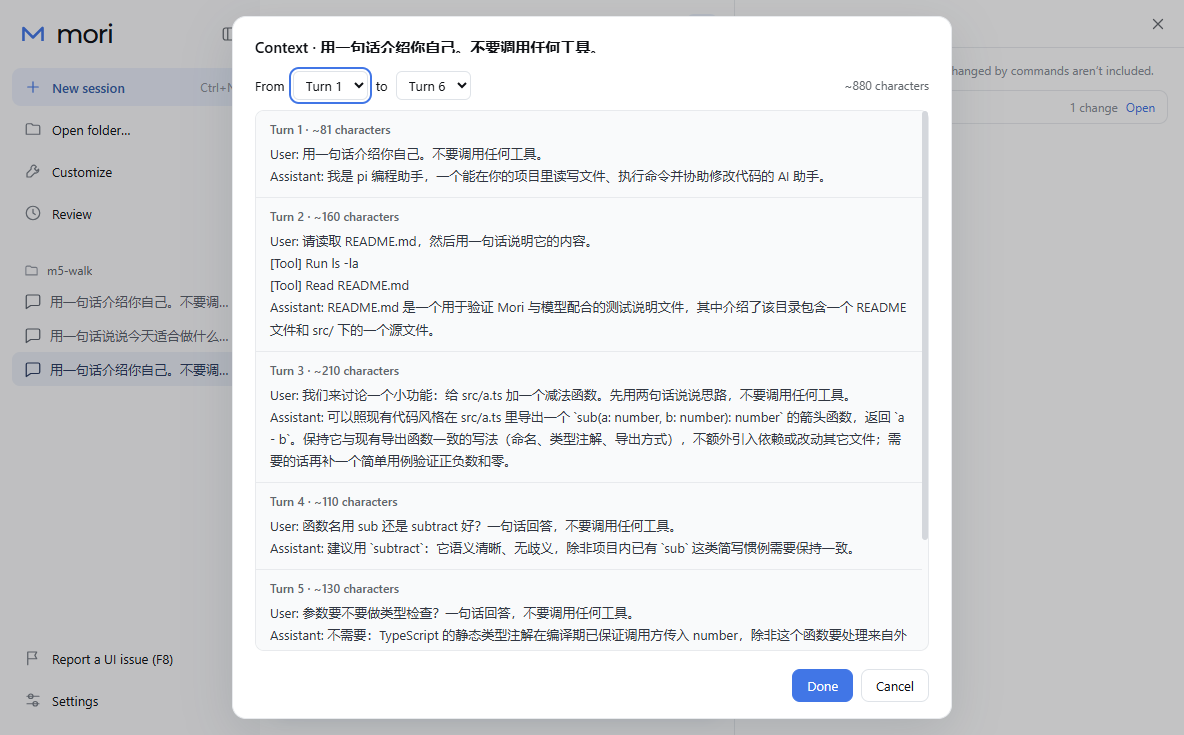
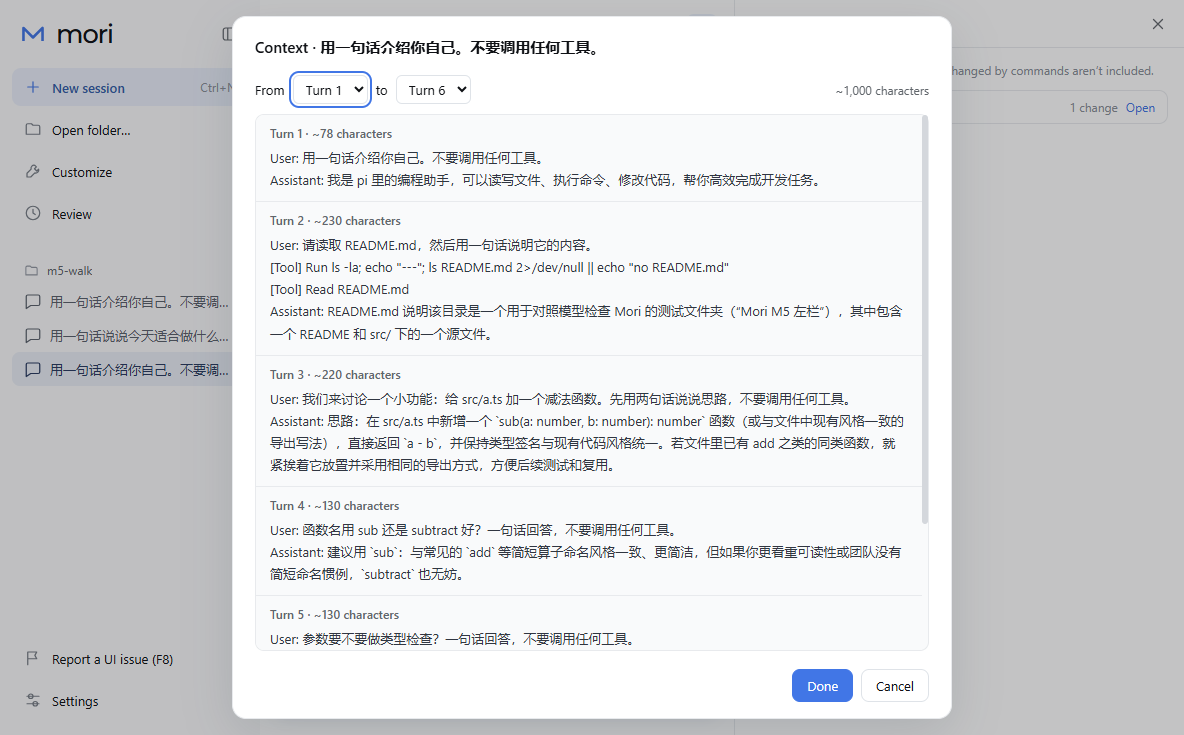
Fix the clipped heading in the session-reference preview
The preview dialog is a flex column with a max height and its heading had overflow: hidden, so
its automatic minimum height was 0: when the turn list filled the dialog the heading shrank and
the bottom of the text (or the whole line, for long sessions) was cut. It predates the English
switch (docs/v0/m5/4-preview.png). The heading no longer shrinks and stays one line with an
ellipsis.

New checks in m5-app (default size, 800x600 content, very long name), m5-replay (ref-turns) and
m5-real fail on the old CSS and on an overflow: visible variant, and pass on both builds.

Changed region(s): [[0.2188, 0.0898, 0.7812, 0.898], [0.7188, 0.0898, 0.7812, 0.1497], [0.3438, 0.0898, 0.4062, 0.1497]]

diff --git a/app/src/renderer/src/styles/split.css b/app/src/renderer/src/styles/split.css
@@ -89,7 +89,9 @@
 
 /* 预览对话框 */
 .dialog.ref-preview { display: flex; flex-direction: column; width: min(720px, 100%); max-height: calc(100vh - 32px); }
-.ref-preview h2 { overflow: hidden; text-overflow: ellipsis; white-space: nowrap; }
+/* 标题不跟着收缩：overflow: hidden 使它在列方向的自动最小高度为 0，轮次列表占满对话框时会被压矮、字被裁掉；
+   会话名一行放不下时截断加省略号，不折行 */
+.ref-preview h2 { flex: none; overflow: hidden; text-overflow: ellipsis; white-space: nowrap; }
 .ref-preview .ref-note { margin: 6px 0 0; color: var(--color-muted); font-size: var(--fs-small); }
 .ref-range { display: flex; flex-wrap: wrap; align-items: center; gap: 8px; margin: 12px 0 10px; }
 .ref-range select {

diff --git a/docs/v0/english-ui-checks.md b/docs/v0/english-ui-checks.md
@@ -9,6 +9,10 @@ fixture，修两个过时的脚本）。
 以及审查后的第二轮：`app/src` 三个文件（表单不用浏览器自带的校验、Chromium 固定用英文、选文件夹对话框的英文标题）和
 `m1-app.mjs`、`m6-app-settings.mjs` 新加的 3 项检查，见"测试中发现并已修正的问题"第 7–8 条；这份记录、`docs/v0/english-ui/`
 的截图、`app/README.md`、`docs/app-v0.md` 和 `ui-strings.md` 的改动也没有提交。分支没有推送，也没有合并进 `app-v0`。
+上面这些后来都提交在 `7500596`（各条里的"没有提交"是写下时的状态）。之后的第三轮修了会话引用预览的标题被压矮，
+审查后又收紧了新加的检查（见"第三轮"），改了 `app/src/renderer/src/styles/split.css`、`app/tests/ui/` 的
+`m5-helpers.mjs`、`m5-app.mjs`、`m5-replay.mjs`、`m5-real.mjs`，状态表 [screens/session-refs.md](screens/session-refs.md)、
+这份记录和 `english-ui/m5-preview.png`，都没有提交。
 
 ## 状态
 
@@ -19,8 +23,9 @@ fixture，修两个过时的脚本）。
 M2–M7 的走查也还没签收（[m7-checks.md](m7-checks.md)"状态"）。这次没有改行为，那些走查要看的东西不变，
 只是界面上的字换成了英文；另外顶栏、侧栏、设置页按英文字宽重新定了几处宽度（"与方案不同"第 3 条）。
 真实端点仍是 DeepSeek 公网端点（`deepseek-flash`），key 用你在 Mori 里加密保存的那一份（`%TEMP%\mori-real-data`）；
-脚本只复制加密的 key 文件，不读取 key；`m0-real` 用的是这个文件夹的临时副本（照 `tests/ui/lib.mjs` 的 `scratchUserData`），
-跑完已删除。重录的 fixture 里没有 key，也没有这个文件夹的路径（已扫描）。
+脚本不读取 key：走查和录制用 `tests/ui/lib.mjs` 的 `scratchUserData` 把这个文件夹里的 `credentials.json`（加密的 key）、
+`Local State`（解密要用）、`pi/models.json` 和 `pi/settings.json` 复制到临时数据目录再用（`m1-real`、`m1-record` 的几项反例
+不复制前两个）；`m0-real` 用的是同样复制出来的临时副本，跑完已删除。重录的 fixture 里没有 key，也没有这个文件夹的路径（已扫描）。
 
 结果一览：合成端点的整机测试 840 项（另有 1 项 KNOWN，pi #9129）在开发构建和打包程序上全部通过；界面回放 367 项
 在开发构建上全部通过；M0–M7 的 DeepSeek 走查 274 项（另有 1 项标为模型行为的 KNOWN）在开发构建和打包程序上都通过，
@@ -29,6 +34,11 @@ M2–M7 的走查也还没签收（[m7-checks.md](m7-checks.md)"状态"）。这
 审查后第二轮改了 `app/src`（表单不用浏览器按系统语言弹的校验气泡、Chromium 固定用英文、选文件夹对话框的英文标题），
 之后在开发构建和打包程序上重跑了全部整机测试（843 项，比第一轮多 3 项新检查）、在开发构建上重跑了全部界面回放，都通过
 （几项要重跑：锁屏时剪贴板不能用、`m4-replay` 已知的拖选时机，见"第二轮"）；真实端点的走查和一键导出安装包没有在第二轮重跑。
+第三轮修了会话引用预览的标题被压矮（原来就有）：`.ref-preview h2` 加 `flex: none`。新加的 5 项检查里 `m5-app` 的 3 项、
+`m5-replay` 的 1 项在改之前的构建上失败（`m5-real` 那一项没有在改之前跑）。审查后收紧了检查（长名字那一项要求标题横向
+裁掉放不下的部分、对话框没有被撑宽，`m5-real` 那一项要求轮次列表占满对话框）：把标题错改成 `overflow: visible` 时长名字
+那一项失败；收紧后 `m5-app` 39 项（开发构建和打包程序）、`m5-replay` 21 项（开发构建）、`m5-real` 17 项（DeepSeek，
+开发构建）全部通过；`m5-real` 在打包程序上只跑过收紧之前的版本（也是 17 项全部通过），见"第三轮"。
 到现在为止只有测试脚本和几张截图"看过"英文界面，还没有人从头到尾用眼睛看过（见"未验证"）。
 
 ## 你决定的
@@ -45,7 +55,7 @@ M2–M7 的走查也还没签收（[m7-checks.md](m7-checks.md)"状态"）。这
 | 工作回顾 | Review | 左栏导航、页标题、"View in Review"、F8 报告的 "Page: Review" |
 | 引用这一族（选区的"问 Mori"、会话菜单的"引用到当前会话"、回复下的"引用到输入框"、把会话拖进输入框） | 用 Claude 的 "Attach as context" | 选区浮层和会话菜单 "Attach as context"，回复下 "Attach message as context"，拖放提示 "Drop to attach as context"；芯片和预览 "Context · …"、"Remove context"、"Not attached"、"the attached text"；发给模型的文字不变，仍是 "Quoting …:" 和 "[Quote] …"；工作回顾里反馈的 "Quoted text" 是反馈针对的原文，不属于这个功能，没有改 |
 | 工具页 | Customize（Claude 开关技能、插件、连接器的页面叫这个） | 左栏导航、页标题、F8 的 "Page: Customize"、操作记录 "Open Customize"；分节标题 Built-in tools / Skills / Plugins / MCP 不变；代码里的文件名（`ToolsPage.tsx` 等）和状态表 [screens/tools.md](screens/tools.md) 没有改名 |
-| 会话引用预览的标题顶部被切掉一点（原来就有） | 在这个会话里修 | **还没有做**：要在 `english-ui` 上改 `split.css`（`.ref-preview h2` 加 `flex: none`）并在 `m5-app`、`m5-replay` 加一项标题没被切的检查；到这份记录为止 `app/src` 里没有这处改动（见"与方案不同"第 4 条、"未验证"） |
+| 会话引用预览的标题被压矮、字的下面被裁掉（原来就有；先前记成"顶部被切掉一点"，量过之后是下面：回放里一行 20px 只剩 16px 看得见，超过 2 万字的会话整行看不见） | 在这个会话里修 | 第三轮已修（没有提交）：`split.css` 的 `.ref-preview h2` 加 `flex: none`；`m5-app` 加 3 项、`m5-replay` 加 1 项、`m5-real` 加 1 项检查，审查后收紧过；`m5-app`、`m5-replay` 的新检查在改之前的构建上失败、改后通过（见"第三轮"、"测试中发现并已修正的问题"第 9 条） |
 | 分屏一栏约 460px 时会话名被挤到约 2 个字符 | 把模型、Effort、权限按钮从顶栏移到输入框下面一行（像 Claude 桌面版），不选"权限按钮只留图标"；Effort 仍是单独的按钮（不像 Claude 那样放进模型菜单）；上下文用量改成模型按钮旁边的小圆环（像 Claude） | 不在这个分支做：英文界面提交之后，在从 `english-ui` 分出的 `composer-pickers` 分支上做（分支还没有建）；这个分支里顶栏的布局不变（见"与方案不同"第 3 条） |
 
 "新会话"叫 "New session" 是任务说明里给定的（术语表里标"负责人定"）。排队叫 "Queue" / "Queued" 不是你定的：它只出现在
@@ -250,6 +260,87 @@ preload 里改过的每个字串去找，旧的 fixture 里都没有（只在界
 - 新加的 3 项在改代码之前的构建（`f381eed` 的 `out/`）上都失败过（"测试中发现并已修正的问题"第 7–8 条）。
 - 另一会话的测试：这一轮没有遇到端口冲突。
 
+### 第三轮：会话引用预览的标题（2026-10-21 17:14–17:49Z；审查后收紧检查 18:14–18:40Z）
+
+**原因**：预览对话框 `.dialog.ref-preview` 是限高（`max-height: calc(100vh - 32px)`）的列方向 flex 容器，轮次列表
+`.ref-turns` 是 `flex: 1`。标题 `.ref-preview h2` 为了省略号设了 `overflow: hidden`，这让它在列方向的自动最小高度变成 0
+（其余几行没有 `overflow: hidden`，最小高度就是内容的高度，不会被压）。轮次的内容放不下时，要收缩的高度按各项的基准尺寸
+分摊，标题也分到一份，被压矮；字从盒子的顶上排起，被裁掉的是字的下面（不是先前记的"顶部"）：`m5-replay` 量到一行 20px
+只剩 16px 看得见。中文界面的 [M5 截图](m5/4-preview.png) 和第一轮打包程序 `m5-real` 的 `4-preview.png`（页面 1184×735）
+都是这样；后者在 `app/test-results/` 里的已被第三轮的走查覆盖，`english-ui/m5-preview.png` 也换掉了，现在只在 git 里：
+`7500596:docs/v0/english-ui/m5-preview.png`。内容越多压得越狠：超过 2 万字的会话，标题只剩不到 1px，整行看不见。
+
+**修正**：`app/src/renderer/src/styles/split.css` 的 `.ref-preview h2` 加 `flex: none`（不伸缩），`overflow: hidden`、
+`text-overflow: ellipsis`、`white-space: nowrap` 不变（一行、放不下时省略号），上面加了两行中文注释写明原因。
+状态表 [screens/session-refs.md](screens/session-refs.md)"预览与调整范围"加了一句：标题始终完整显示在一行，会话名太长时
+截断加省略号、不折行。
+
+**检查**：`m5-helpers.mjs` 新加 `previewHeading`（量标题：`clientHeight` 与 `scrollHeight`；盒子的高度与一行的高度，
+line-height 是 normal，取字的 Range 外框的高度；字排成几行；字是否比盒子宽（`scrollWidth` 大于 `clientWidth`）；computed 的
+`overflow-x` 和 `text-overflow`；是否超出对话框右边；标题和对话框的右边、对话框的宽、页面的宽；轮次列表是否占满对话框）、
+`headingWhole`（只有一行、`clientHeight` 不小于 `scrollHeight`、盒子不比一行矮，留 0.5px）和审查后加的 `headingTruncated`
+（字比盒子宽；`overflow-x` 是 `hidden` 或 `clip`；`text-overflow` 是 `ellipsis`；只有一行；标题不超出对话框；标题和对话框的
+右边都在页面里；对话框宽 min(720px, 页面宽 − 32px)；都留 0.5px。这个宽度来自 `.dialog.ref-preview` 的
+`width: min(720px, 100%)`、外层 `.dialog-backdrop` 左右各 16px 的 padding 和全局的 `box-sizing: border-box`）。
+
+| 测试 | 新加的检查 | 怎么做 |
+| --- | --- | --- |
+| `m5-app`（新步骤 `headingFit`，在 `longSource` 之后；要用 `longSource` 建的会话，`--only` 时两个都要选） | 预览的标题：默认窗口大小、轮次列表占满对话框时标题完整显示，只有一行、没有被压矮 | 用菜单把超过 2 万字的会话（`longSource` 建的，6 轮）引用进 B，点芯片；窗口先回到启动时的大小（页面 1184×735） |
+| 同上 | 预览的标题：内容区 800×600、轮次列表占满对话框时标题仍完整显示，只有一行 | 同一个对话框，窗口内容区改成 800×600（审查后照 `m2-app` 改叫"内容区 800×600"，原来叫"最小窗口 800×600"） |
+| 同上 | 预览的标题：会话名很长时只有一行，横向裁掉放不下的部分、截断加省略号、不折行，不超出对话框和窗口，对话框没有被撑宽，完整显示 | 把这个会话改名为 127 个字符的中英文名字，再打开预览（也占满对话框）；核对标题的文字是完整的名字、`headingTruncated` 和 `headingWhole`。审查前只看"放不下""省略号""不超出对话框"和 `headingWhole`，标题错改成 `overflow: visible` 也会通过（见下面的反例） |
+| `m5-replay` | ref-turns：轮次列表占满预览对话框时（默认窗口大小），标题"Context · <会话名>"完整显示，只有一行、没有被压矮 | `ref-turns` fixture 的会话 C（6 轮），回放窗口 1200×800（页面 1184×735），就是截图里的那个对话框；另存截图 `ref-turns-preview` |
+| `m5-real` | 走查 4：轮次列表占满预览对话框时，标题"Context · <会话名>"完整显示，只有一行、没有被压矮 | 走查 4 截图 `4-preview` 的同一时刻；审查后要求轮次列表占满对话框（原来只记在详情里，列表没占满时会白白通过） |
+
+**先失败**（改之前：`7500596` 的 `app/src`，`npx electron-vite build` 之后）：
+
+| 测试 | 结果 | 量到的值（标题的 `clientHeight` / `scrollHeight`，盒子 / 一行） |
+| --- | --- | --- |
+| `m5-replay`（17:17Z） | 20 项通过，1 项失败，就是新加的那一项 | 16 / 20，15.94px / 20px：字的下面 4px 被裁掉，与截图相同；轮次列表占满对话框 |
+| `m5-app`（17:44Z） | 36 项通过，3 项失败，就是新加的 3 项 | 默认窗口（页面 1184×735）1 / 20，0.89px / 20px；800×600 时 1 / 20，0.67px；长名字 1 / 20，0.89px（一行、放不下、省略号这几样是对的，只是被压到不到 1px）。截图里标题整行不见了 |
+
+`m5-app` 的新步骤先写成用 `setContentSize` 回到启动时 `getContentSize` 的大小；这个窗口有菜单栏，页面因此比启动时高
+26px（1184×761）。改成按窗口外框（`getSize` / `setSize`）恢复、详情里记下页面的大小后，在改之前的构建上重跑了一遍（上表），
+再在改之后的两种构建上各跑一遍。第一版的结果与最终版相同：改之前 36 项通过、同样 3 项失败（17:19Z），改之后开发构建、
+打包程序都是 39 项全部通过（17:24Z、17:27Z）。`m5-helpers.mjs`、`m5-replay.mjs`、`m5-real.mjs` 在这之后到审查前没有再改。
+
+收紧后的检查也在改之前的 CSS 上跑过（18:33–18:35Z，`split.css` 临时换回 `7500596` 的版本，`npx electron-vite build`）：
+`m5-app` 仍是 36 项通过、同样 3 项失败，量到的值与上表相同（长名字那一项横向的几样都对，只是被压到 1 / 20）；
+`m5-replay --only ref-turns` 7 项通过、1 项失败，就是新加的那一项（16 / 20）。
+
+**反例：标题错改成 `overflow: visible`**（审查后，18:14–18:16Z）：临时把 `.ref-preview h2` 改成
+`flex: none; overflow: visible; …`（不再被压矮，但放不下的字不裁掉、省略号也不起作用），`npx electron-vite build` 后跑
+`m5-app`：38 项通过，1 项失败，就是长名字那一项。详情里一行、20 / 20、字比盒子宽、`text-overflow: ellipsis`、标题的盒子在
+对话框里（右边 929 ≤ 952）、对话框宽 720px（页面 1184px）都对，只有 `overflow-x` 是 `visible`；审查前的条件这时会通过。
+截图里会话名伸出对话框，一直伸到窗口右边外面。之后把 `split.css` 从改之前存的副本复制回来（SHA-256 相同，`git diff` 只有
+这一处修正和两行注释），重新构建。
+
+**结果**（改之后）：`npm run check` 通过（改后两次，`dist:dir` 里又一次；收紧后 18:17Z 一次，`dist:dir` 里又一次）。
+17:25Z `npm run dist:dir`，`app.asar` 里是改后的 CSS；最后一次构建的 `out/` 与解开的 `app.asar` 的 327 个文件逐个比较
+SHA-256，全部相同。收紧后 18:22Z 又 `npm run dist:dir` 一次，`out/` 与 `app.asar` 的 327 个文件同样逐个相同（跑完改之前的
+CSS 之后的最后一次构建也比较过）。
+
+| 测试 | 开发构建 | 打包程序（`dist/win-unpacked/Mori.exe`） |
+| --- | --- | --- |
+| `m5-app` | 39 项全部通过（原来 36 项 + 3 项）；收紧后 39 项全部通过（18:18Z，最后一次构建上 18:36Z 又一次） | 39 项全部通过；收紧后 39 项全部通过（18:24Z） |
+| `m5-replay` | 21 项全部通过（原来 20 项 + 1 项）；收紧后 21 项全部通过（18:20Z，18:38Z 又一次） | 不适用 |
+| `m5-real`（DeepSeek，`--source %TEMP%\mori-real-data`） | 17 项全部通过（原来 16 项 + 1 项），一遍就过；收紧后 17 项全部通过，一遍就过（18:26–18:30Z） | 17 项全部通过，一遍就过（17:37Z，收紧之前的版本；那一遍的详情里轮次列表占满对话框、标题 20 / 20，收紧后的条件也满足，但没有用收紧后的脚本重跑） |
+
+`m5-real` 用的是脚本复制出来的临时数据目录（`scratchUserData`：`credentials.json`（加密的 key）、`Local State`、
+`pi/models.json` 和 `pi/settings.json`，没有读 key），每遍跑完都已删除。三遍里轮次列表都占满了对话框，标题 20 / 20、
+盒子 20px。
+
+**截图（都看过）**：改之前 `m5-replay` 的 `ref-turns-preview`（字的下沿被切）、`m5-app` 的 `4-heading-default`、
+`4-heading-800x600`、`4-heading-long-name`（标题整行不见）；改之后 `m5-replay` 的 `ref-turns-preview`，`m5-app` 两种构建的
+`4-heading-default`、`4-heading-800x600`（标题完整，"Context · plain 第 1 条 这是一条很长的你…"）、`4-heading-long-name`
+（一行，末尾 "…on a sin…"，对话框没有变宽），`m5-real` 两种构建的 `4-preview`（"Context · 用一句话介绍你自己。不要调用任何工具。"
+完整）。[english-ui/m5-preview.png](english-ui/m5-preview.png) 换成了打包程序这一遍的 `4-preview`。收紧后又看了：反例的
+`4-heading-long-name`（会话名伸出对话框和窗口）、收紧后打包程序的 `4-heading-long-name`（一行，末尾 "…on a sin…"，
+对话框没有变宽）、开发构建的 `4-heading-800x600`（标题完整）、`m5-real` 开发构建的 `4-preview`（标题完整）。截图在
+`app/test-results/m5-app(-packaged)/`、`m5-replay/`、`m5-real(-packaged)/`（不提交；现在是收紧后那几遍的，
+`m5-real-packaged/` 仍是 17:37Z 那一遍的）。
+
+只改了这一条 CSS，影响只在预览对话框，所以只重跑了 M5 的整机测试、回放和走查。另一会话的测试：这一轮没有遇到端口冲突。
+
 ### 走查 5：一键导出安装包
 
 都在 `english-ui` `f381eed` 的干净克隆里，从命令行运行 `cmd /c build-installer.cmd --no-open --no-pause`，输出重定向到文件。
@@ -317,6 +408,11 @@ npm 11.17 提示 6 个包的安装脚本不在 `allowScripts` 里（esbuild 0.25
    核对标题、按钮和 `openDirectory`；改代码之前的构建上失败（只有 `properties`），改后通过。对话框的其余部分和 Windows 给的
    错误原文（`shell.openPath` 打不开的原因）仍跟 Windows 显示语言，是有意不翻的（ui-strings.md "写法约定"已写明）；
    在中文显示的 Windows 上没有试过（这台机器的显示语言是 en-US）。
+9. **会话引用预览的标题被压矮**（原来就有，中文界面的 M5 截图里就有；你要求在这个会话里修，第三轮已修正、没有提交）：
+   标题为了省略号设了 `overflow: hidden`，在列方向的 flex 对话框里它的自动最小高度因此是 0，轮次列表占满对话框时被一起压矮，
+   字被裁掉 → `.ref-preview h2` 加 `flex: none`，一行、放不下时省略号不变。加了 5 项检查（`m5-app` 3 项、`m5-replay` 1 项、
+   `m5-real` 1 项），前两个测试的 4 项在改之前的构建上失败，改之后 5 项都通过；审查后收紧了长名字和 `m5-real` 的那两项，
+   标题错改成 `overflow: visible` 时长名字那一项失败，见"第三轮"。
 
 ## 与方案不同、或需要你注意的地方
 
@@ -338,9 +434,10 @@ npm 11.17 提示 6 个包的安装脚本不在 `allowScripts` 里（esbuild 0.25
      先占了位置，会话名被挤到最小的 36px（只剩约 2 个字符，见[截图](english-ui/m5-split.png)）。这个分支只保证不溢出，
      没有给会话名腾地方。你已经定了怎么改（"你决定的"最后一条：按钮移到输入框下面一行、Effort 仍单独、上下文用量改成圆环），
      在英文界面提交之后的 `composer-pickers` 分支上做。
-4. **会话引用预览的标题顶部被切掉一点**：中文界面和英文界面都这样，原来就有。你要求在这个会话里修（"你决定的"），
-   **还没有修**：到这份记录为止 `app/src` 里没有这处改动（第二轮只改了表单、语言和选文件夹对话框），要在 `english-ui` 上
-   改 `split.css` 并在 `m5-app`、`m5-replay` 加一项检查，之后重跑 M5 的测试。
+4. **会话引用预览的标题被压矮、字的下面被裁掉**（先前记成"顶部被切掉一点"，量过之后是下面：回放里一行 20px 只剩 16px
+   看得见，超过 2 万字的会话整行看不见）：中文界面和英文界面都这样，原来就有。你要求在这个会话里修（"你决定的"），
+   第三轮已修正（没有提交）：`split.css` 的 `.ref-preview h2` 加 `flex: none`，状态表加了一句标题的样子；
+   只重跑了 M5 的整机测试、回放和走查（见"第三轮"）。
 5. **自动生成的会话名仍截到 20 个字符**（`TITLE_LENGTH`）：中文 20 个字够一句话，英文只有 3–4 个词。没有改。
 6. **两处读屏名里有 " · "**："Context: src/a.ts · lines 3–5, jump to source"、"Remove context: …"（芯片上的字本身带 " · "）。
    约定说读屏名里不用 " · "，但术语表里这两条就是这样写的，照术语表。
@@ -360,13 +457,18 @@ npm 11.17 提示 6 个包的安装脚本不在 `allowScripts` 里（esbuild 0.25
 - **你的走查**：这次的，以及还没签收的 M2–M7。到现在为止只有测试脚本和几张截图（录制时 F8 报告的截图、走查的出错截图等）
   看过英文界面，没有人从头到尾用眼睛看过每一屏的英文是否通顺、是否被截断。几张打包程序走查时的截图（第一轮，`f381eed`；
   第二轮的改动不影响这几屏）：[M4 选区芯片](english-ui/m4-chip.png)、[M5 分屏](english-ui/m5-split.png)、
-  [M5 会话引用预览](english-ui/m5-preview.png)、[M6 设置页](english-ui/m6-settings.png)、[M7 工作回顾](english-ui/m7-issue.png)。
+  [M5 会话引用预览](english-ui/m5-preview.png)（第三轮修正后打包程序走查时的截图；第一轮那张在 `7500596` 里）、
+  [M6 设置页](english-ui/m6-settings.png)、
+  [M7 工作回顾](english-ui/m7-issue.png)。
 - **M2–M7 的走查要用英文构建新建的数据**：方案第 7 节 M4 走查 3（重启后芯片仍能点回）、M5 走查 5（点引用跳回 C）、
   M7 走查 1–2（M2 起的 F8 报告都在 "UI issues" 里）照字面要在你现有的 `%APPDATA%\Mori` 上做，但按你定的不兼容
   （[app-v0.md](../app-v0.md) 第 11 节"显示语言"），M2–M7 的构建存下的 F8 报告会列为 "Couldn’t read the record <文件名>"，
   旧消息里的中文引用块（"引用 … 第 N 行：""引用会话“…”第 N 轮："）按全文显示、没有芯片。所以这些走查要用英文构建新建的
   会话、引用和 F8 报告；反馈记录（JSON）的格式没有变，旧的反馈应该照样列出（没有试过）。
-- **会话引用预览标题的修正还没做**（"与方案不同"第 4 条）。
+- **会话引用预览标题的修正**（第三轮）只查了这个对话框。别的列方向、限高的弹层里有没有同样"`overflow: hidden` 的一行被压矮"
+  的写法没有逐个查（只看了 F8 报告框：它的标题没有 `overflow: hidden`，框自己滚动）。第三轮只重跑了 M5 的测试，
+  其他整机测试、回放、走查和一键导出安装包没有用这份代码再跑；打出的安装包也没有重新打（只打了 `dist/win-unpacked`）。
+  审查后收紧的检查没有在打包程序上跑 `m5-real`（只跑了开发构建）。
 - **`m4-real` 走查 4 第一次失败的原因不知道**（开发构建，第一轮）：拖选后 30 秒内没有出现选区浮层，重跑都通过；与 M6、M7 记下的
   M4 拖选时机问题像是同一类，没有查到确切原因，测试和代码都没有改。
 - **`m1-real` 第 3 项反例没有标为模型行为**：DeepSeek 在命令后面加 `; echo …` 时命令以 0 结束，Mori 显示 "Done" 是对的，但这一项
@@ -386,7 +488,8 @@ npm 11.17 提示 6 个包的安装脚本不在 `allowScripts` 里（esbuild 0.25
   从 437 启动的 cmd 在每次测试里都正常，包括控制台的输出代码页被改成 65001 之后。
 - **第二轮之后没有重跑的**：真实端点的走查（`m0-real` … `m7-real`）、录制、一键导出安装包（走查 5）都是在第一轮（`f381eed`
   的 `app/src`）上做的；第二轮改了 `app/src`，这些没有再跑（理由见"第二轮"）。打出的安装包也没有用第二轮的代码重新打。
-  整机测试和界面回放在第二轮整体重跑过（`m5-app.mjs` 的修正也包括在内）。
+  整机测试和界面回放在第二轮整体重跑过（`m5-app.mjs` 的修正也包括在内）。第三轮（`7500596` 之后的预览标题修正）只重跑了
+  `m5-app`、`m5-replay` 和 `m5-real`，`m5-real` 是这些真实端点走查里唯一跑在第二轮以后的代码上的。
 - **中文显示的 Windows 上没有试过**：Chromium 固定用英文是用 `--lang=zh-CN` 启动模拟的（Mori 设的开关盖过了命令行上的），
   这台机器的显示语言是 en-US；选文件夹对话框的其余部分和 Windows 的错误原文在中文 Windows 上会是中文（有意不翻）。
   `navigator.languages` 第二项仍是系统的 zh-Hans-CN（Mori 没有用到它）。

diff --git a/docs/v0/screens/session-refs.md b/docs/v0/screens/session-refs.md
@@ -83,6 +83,8 @@ Quoting session “修复登录”, turns 3–4:
 | 原会话已删除 | `session.read` 报会话文件不在，或会话列表里已经没有它 | "Session deleted · Showing the attached text"，显示芯片里保存的内容；不能改范围 | "Close"或 Esc |
 | 读取失败 | `session.read` 报其他错误 | "Couldn’t read the session: <原文> · Showing the attached text"，下面是芯片里保存的内容 | Close |
 
+标题"Context · <会话名>"始终完整显示在一行：会话名太长时截断加省略号，不折行。
+
 焦点：打开时在"From turn"的下拉框；Tab 只在对话框里循环；关闭后焦点回到芯片。
 
 ## 发出的消息里的引用
